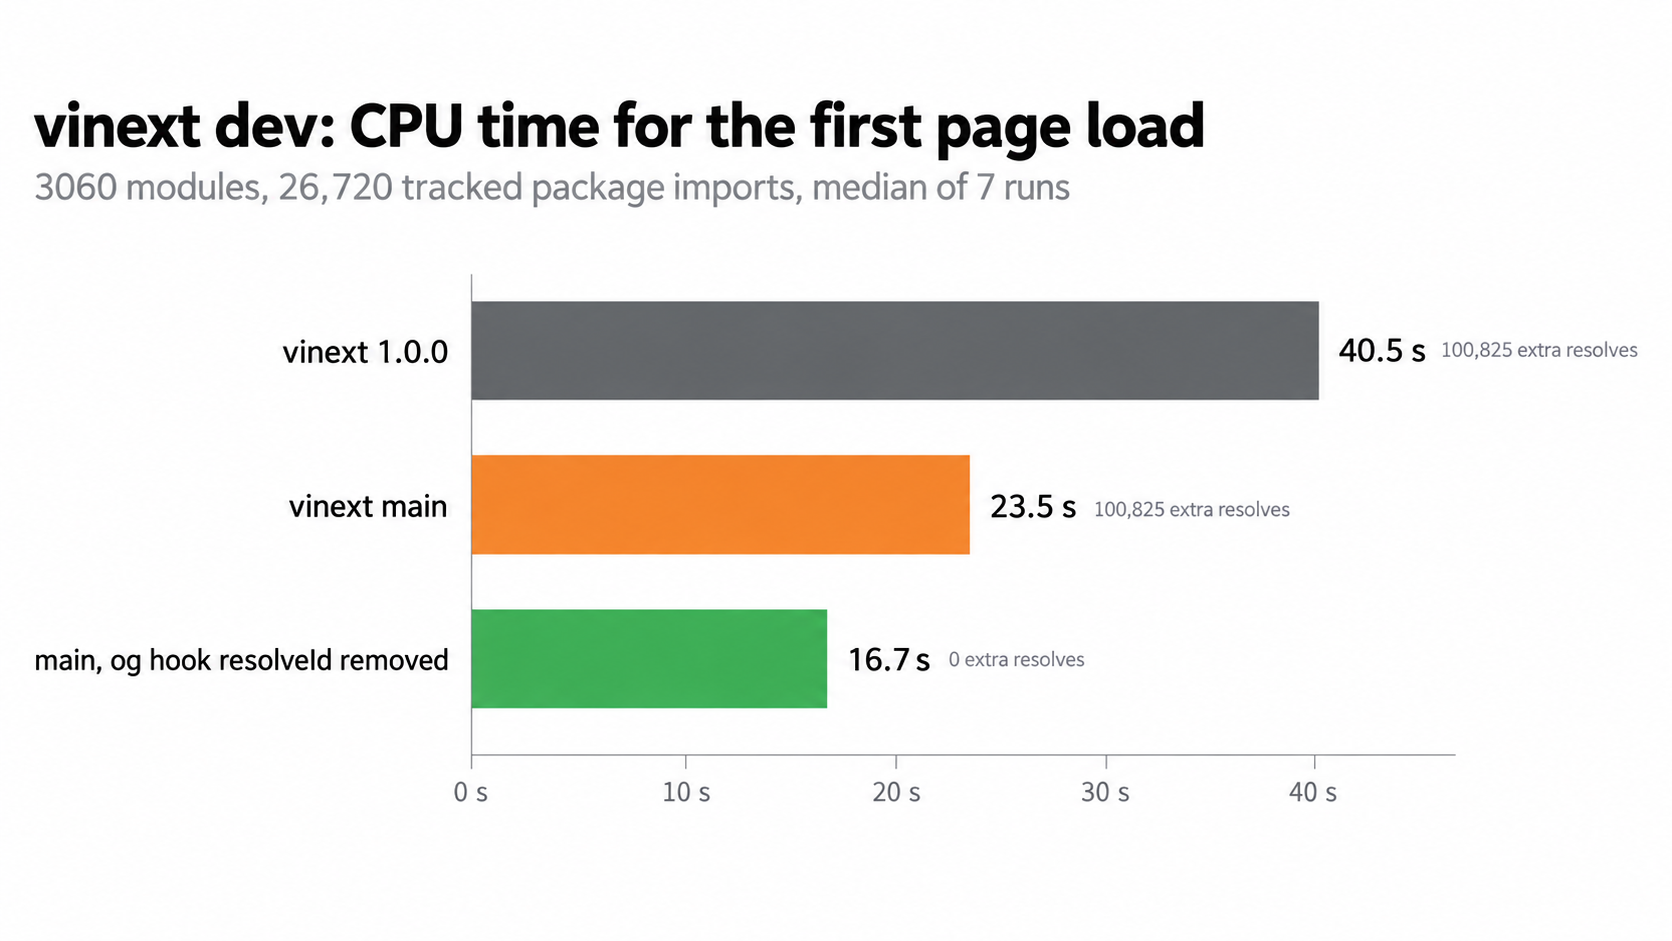
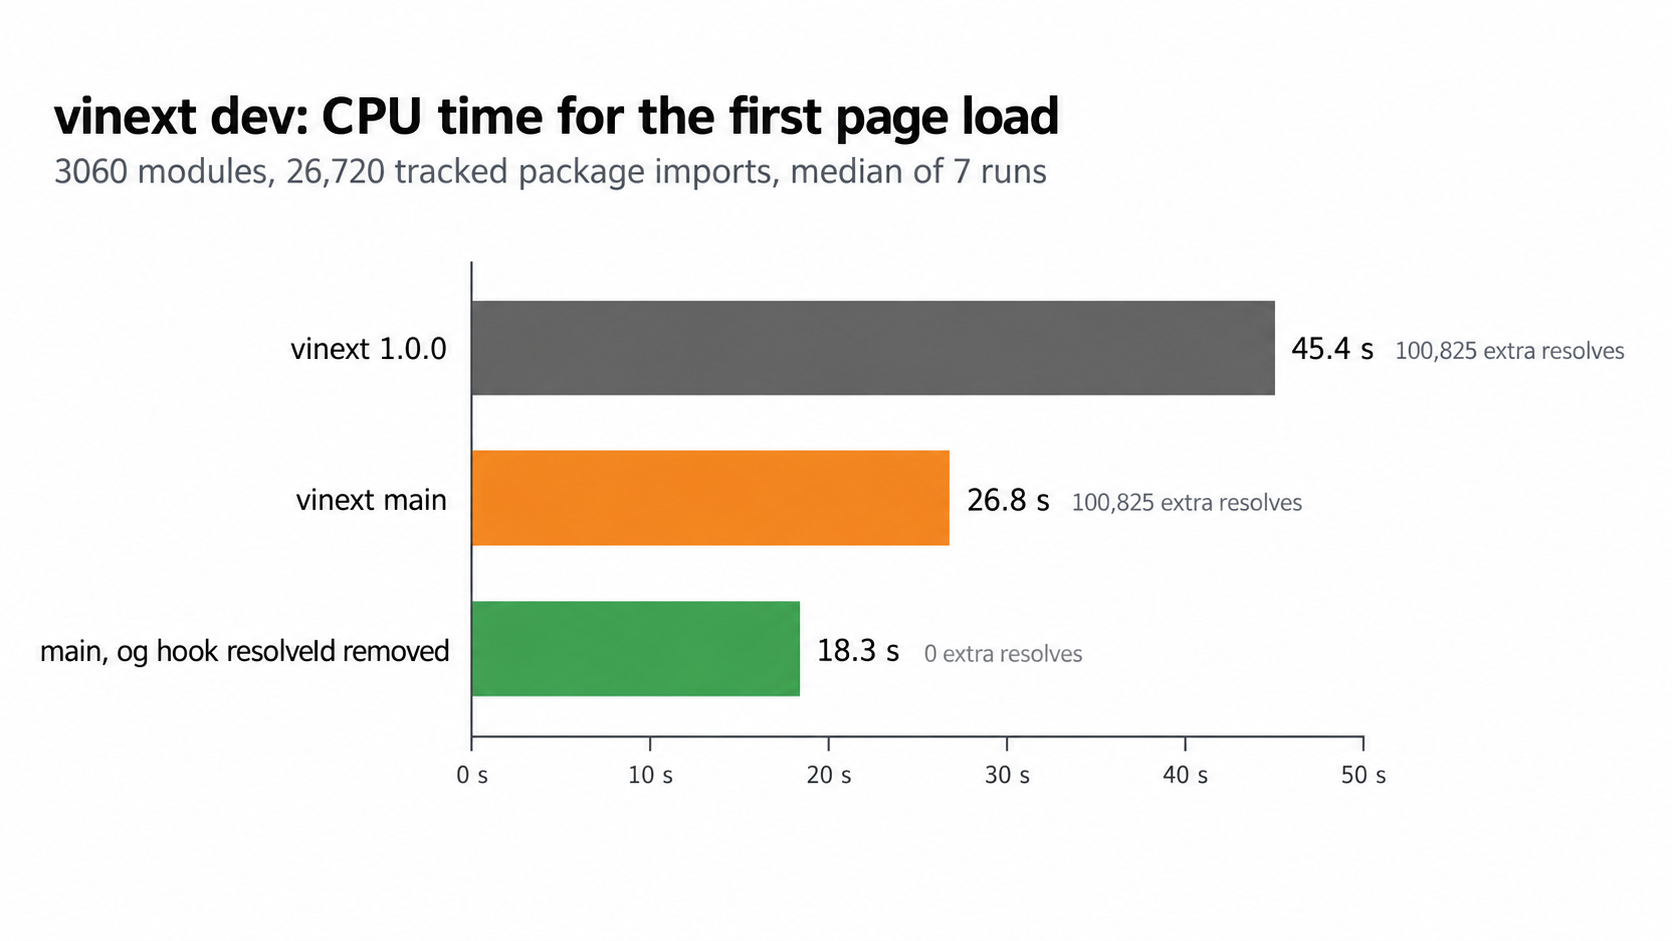
Final numbers from a run without other benchmarks

diff --git a/README.md b/README.md
@@ -1,9 +1,9 @@
 # vinext dev: the OG asset hook resolves every package import twice
 
 **In dev, `vinext:og-inline-fetch-assets` resolves every import of a dependency or alias a second time, even in apps that never use `next/og`.**
-On this synthetic Pages Router app, the first page load on vinext `main` takes 23.5 s of CPU time. Without the hook's `resolveId` it takes 16.7 s, with identical HTML.
+On this synthetic Pages Router app, the first page load on vinext `main` takes 26.8 s of CPU time. Without the hook's `resolveId` it takes 18.3 s, with identical HTML.
 
-![CPU time for the first page load: vinext 1.0.0 40.5 s, main 23.5 s, main without the hook's resolveId 16.7 s](docs/cpu-time.png)
+![CPU time for the first page load: vinext 1.0.0 45.4 s, main 26.8 s, main without the hook's resolveId 18.3 s](docs/cpu-time.png)
 
 ## Repro
 
@@ -30,19 +30,19 @@ That is 26,720 import statements of `react` and `pkg-*` that the hook tracks.
 
 ## Numbers
 
-Median of 7 interleaved runs, min–max in brackets. Other processes were running on the machine, so wall time is noisy. CPU time is steadier.
+Median of 7 interleaved runs, min–max in brackets. No other benchmark ran at the same time. Wall time still varies between runs, CPU time less so.
 
 | vinext | first HTML | CPU time | `vite:resolve-dev` calls | hook calls | `this.resolve()` in hook |
 |---|---:|---:|---:|---:|---:|
-| 1.0.0 | 30.9 s (26.4–51.4) | 40.5 s (37.4–58.2) | 106,993 | 113,111 | 100,825 |
-| 1.0.0, hook `resolveId` removed | 14.7 s (14.0–18.6) | 16.3 s (15.8–19.9) | 56,550 | 0 | 0 |
-| main | 20.4 s (18.5–26.9) | 23.5 s (23.2–26.4) | 106,993 | 113,113 | 100,825 |
-| main, hook `resolveId` removed | 15.3 s (14.0–19.0) | 16.7 s (16.0–18.7) | 56,551 | 0 | 0 |
-| main, hook returns its `this.resolve()` result | 18.0 s (16.8–21.4) | 21.1 s (20.4–25.2) | 56,551 | 113,113 | 100,825 |
+| 1.0.0 | 33.3 s (25.9–34.4) | 45.4 s (36.7–48.5) | 106,993 | 113,111 | 100,825 |
+| 1.0.0, hook `resolveId` removed | 17.1 s (13.7–18.1) | 18.6 s (15.7–19.6) | 56,551 | 0 | 0 |
+| main | 21.9 s (18.5–23.2) | 26.8 s (22.8–27.4) | 106,993 | 113,113 | 100,825 |
+| main, hook `resolveId` removed | 16.4 s (13.5–16.9) | 18.3 s (16.0–19.2) | 56,551 | 0 | 0 |
+| main, hook returns its `this.resolve()` result | 19.0 s (16.6–20.1) | 23.2 s (19.9–23.9) | 56,551 | 113,113 | 100,825 |
 
 The HTML was byte-identical in all 35 runs.
 
-`main` already caches the `realpath` and `package.json` lookups ([#3588](https://github.com/cloudflare/vinext/pull/3588)). That removed most of the 1.0.0 cost. What is left on `main` is the second resolve: about 7 s of CPU time here.
+`main` already caches the `realpath` and `package.json` lookups ([#3588](https://github.com/cloudflare/vinext/pull/3588)). That removed most of the 1.0.0 cost. What is left on `main` is the second resolve: about 8.5 s of CPU time here.
 
 A large Pages Router app (~4,300 server modules) on vinext 1.0.0 showed the same pattern: the hook tracked about 56,000 of 74,000 `resolveId` calls, and removing it cut the first page load from 30.2 s to 27.3 s (one run each).
 
@@ -66,7 +66,7 @@ async resolveId(source, importer, options) {
 
 The recorded package roots are only read in the `transform` hook. It runs for code that contains `import.meta.url`, and it needs them for a module outside the project root that is not under a `node_modules` path, i.e. a linked package. There they decide which directory assets may be inlined from ([#2172](https://github.com/cloudflare/vinext/pull/2172)). In this app no module contains `import.meta.url`, so the work is never used.
 
-Returning `resolved` instead of `null` is not a drop-in fix. Vite's dev `this.resolve()` does not pass `options.kind` on, and `vite:resolve-dev` uses `kind === "require-call"` to pick the `require` condition. It also only saves 2.4 of the 7 s: the plugins before the hook still run twice (last row).
+Returning `resolved` instead of `null` is not a drop-in fix. Vite's dev `this.resolve()` does not pass `options.kind` on, and `vite:resolve-dev` uses `kind === "require-call"` to pick the `require` condition. It also only saves 3.6 of the 8.5 s: the plugins before the hook still run twice (last row).
 
 ## Environment
 
